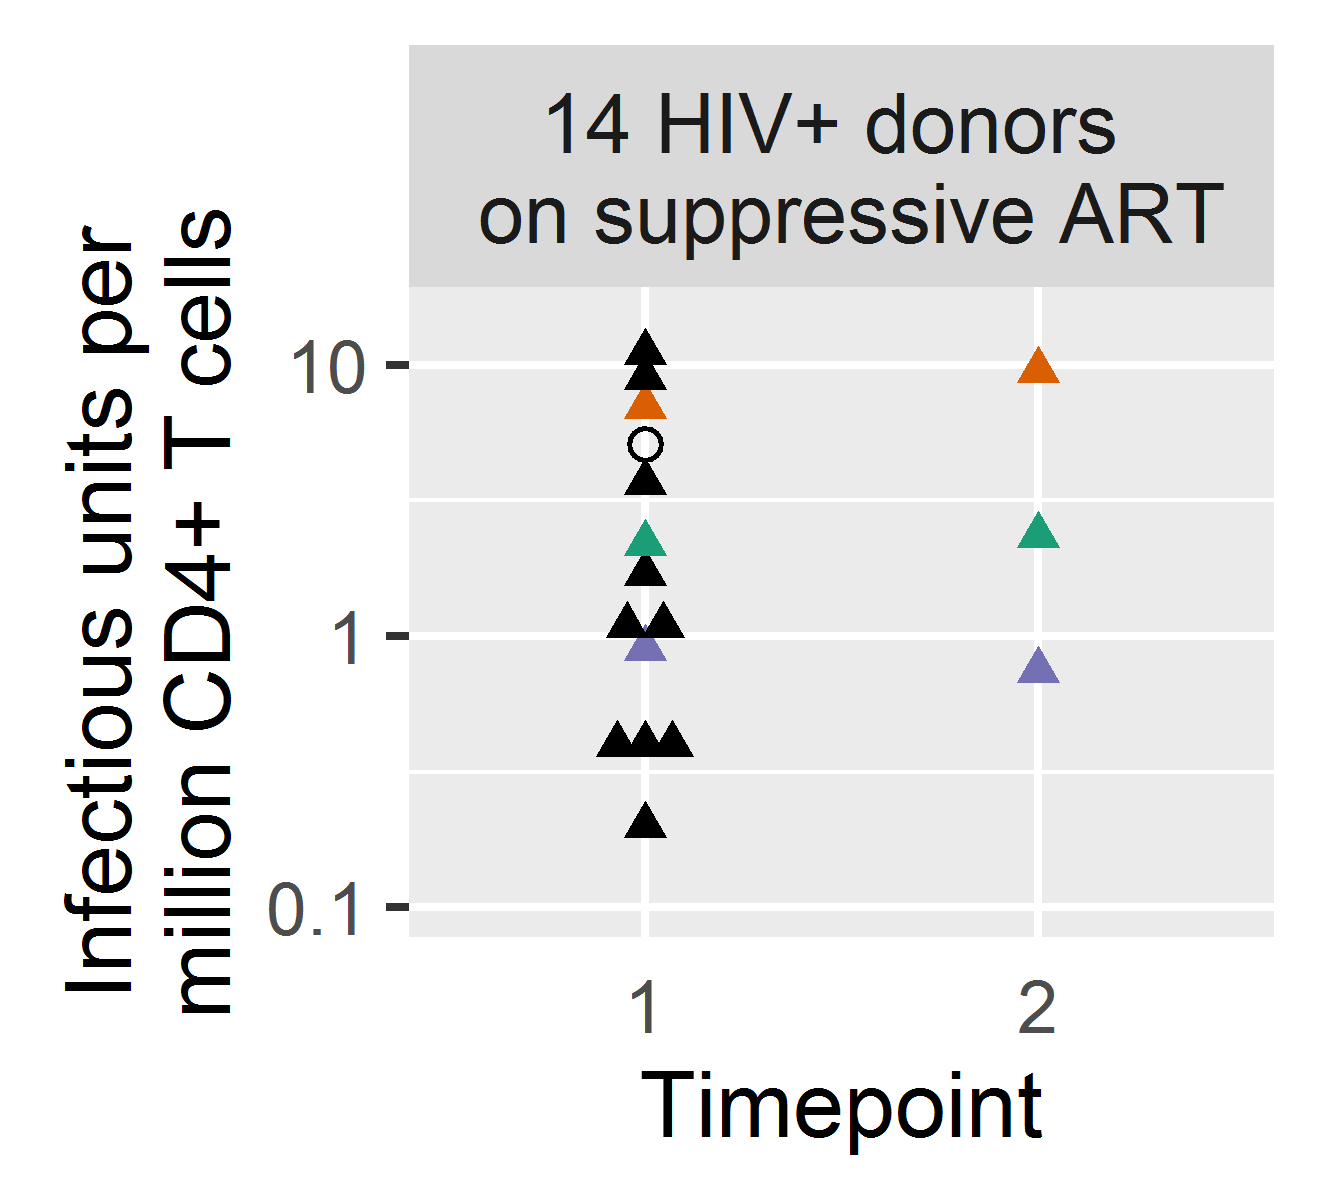
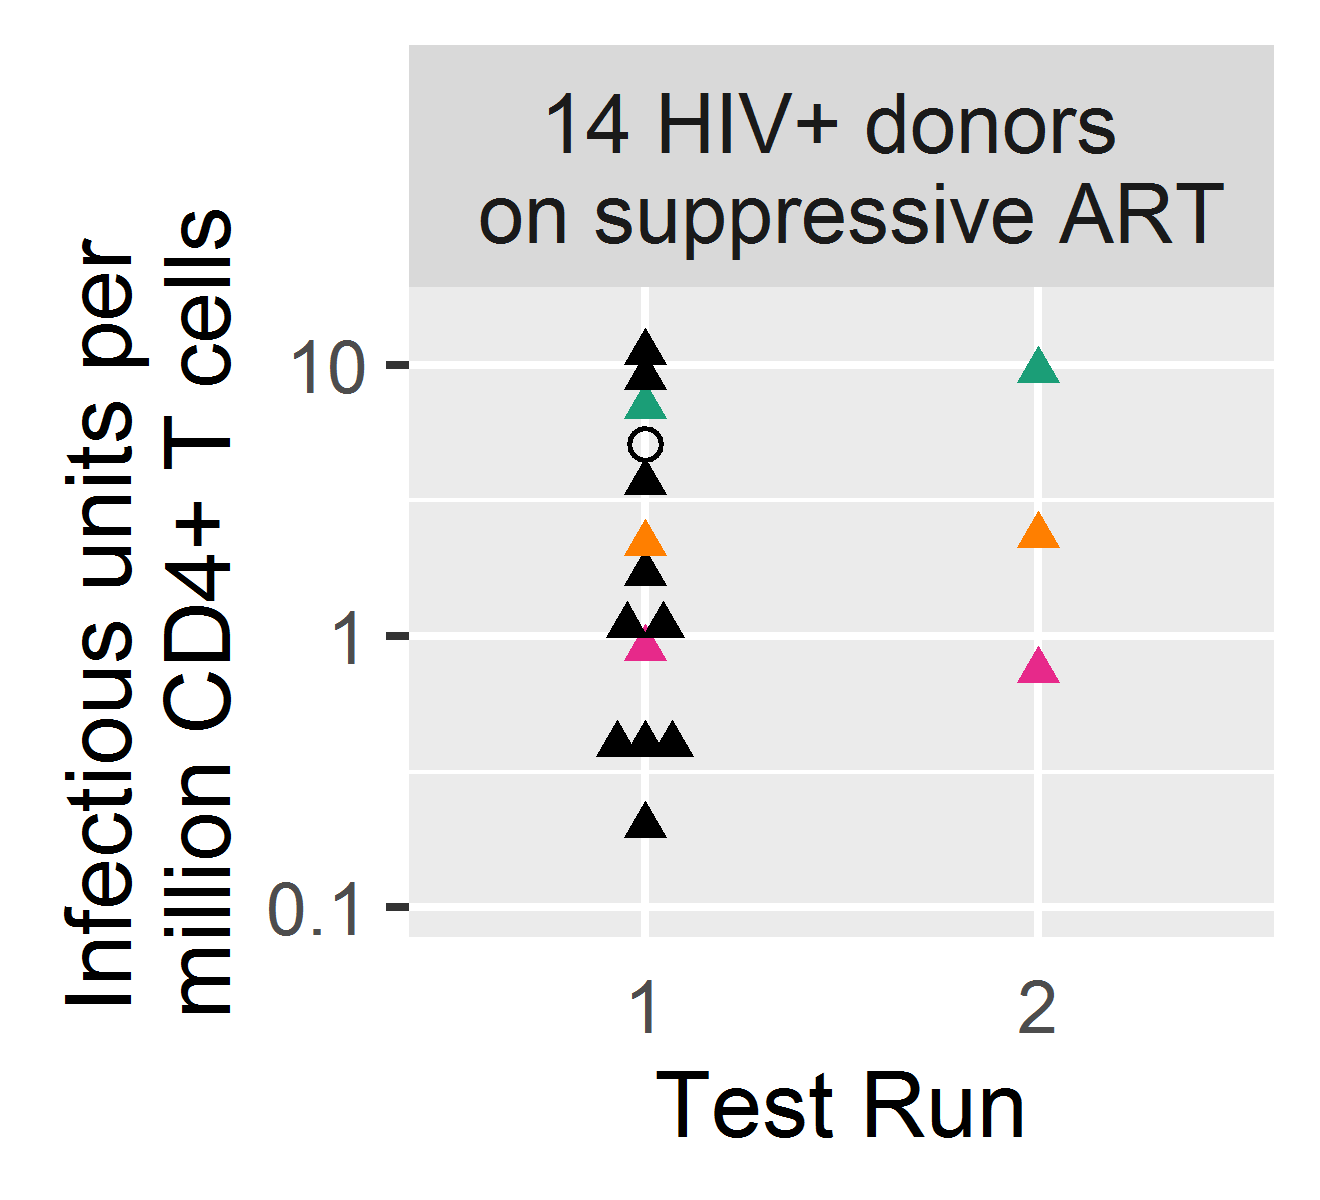
Changed x axis to "Test Run" in  the all donors plot and also in the raw data

diff --git a/qVOA_figure_redo.md b/qVOA_figure_redo.md
@@ -1,3 +1,6 @@
+Cure U01 qVOA figure
+================
+
 These are figures for the cure u01 grant application. We got the data from someone else, but their graph wasn't good so I am re-making it. They sent some data+graph+info in one file and some more data in another file, so I took out just the data and put it in a single .csv file to read into R.
 
 The first figure is data from all donors
